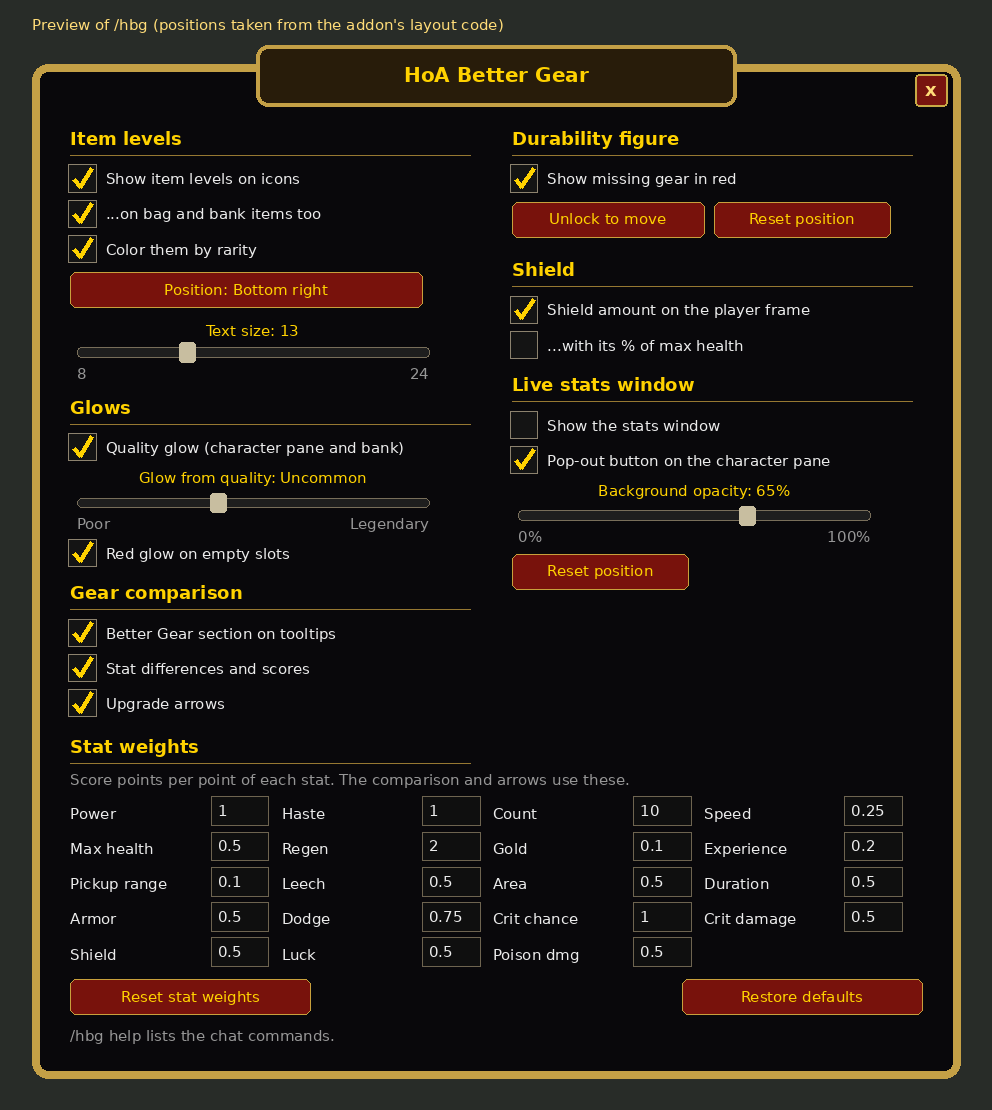
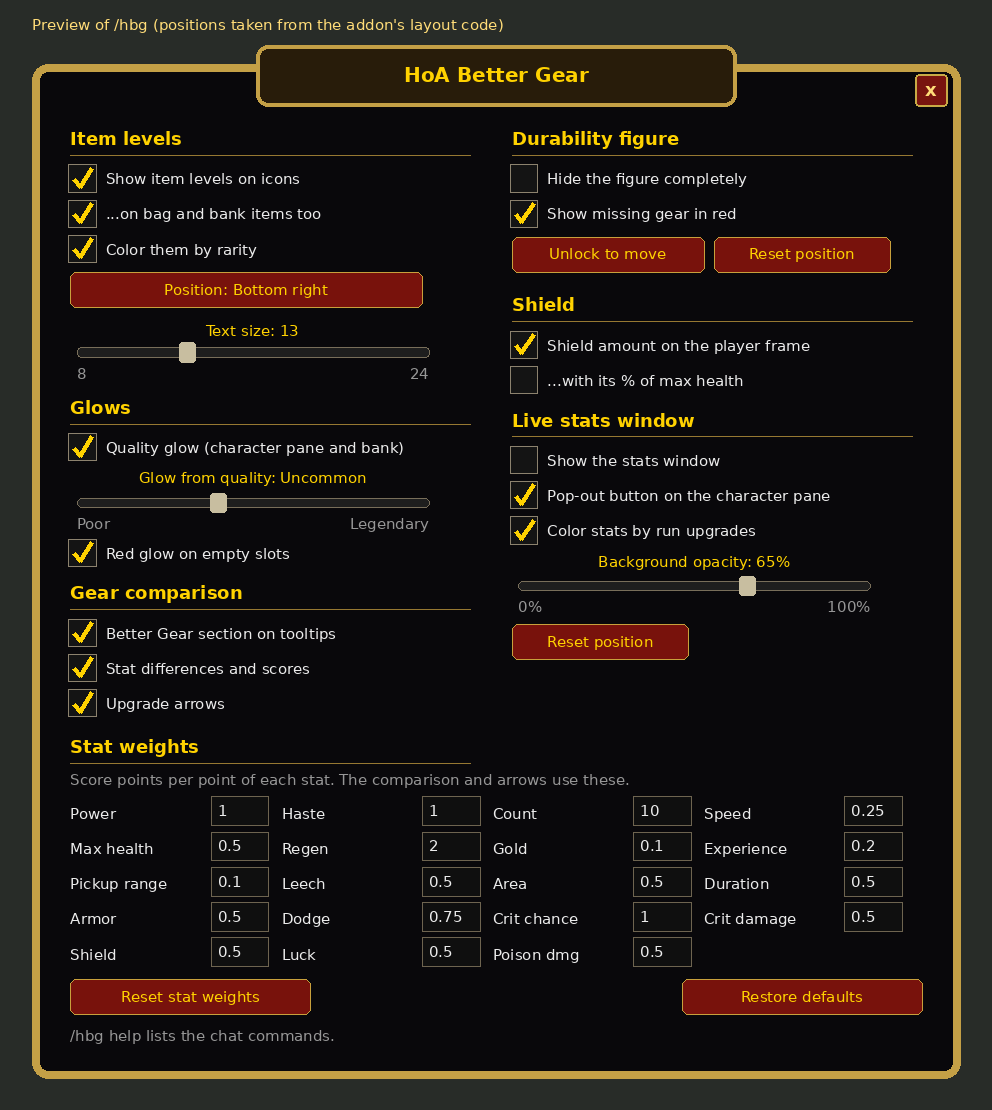
Add a setting to hide the durability figure completely
"Hide the figure completely" in the settings window (or /hbg hidefigure)
keeps the armored figure hidden, including the game's own damaged/broken
warnings. It still shows while unlocked for moving.

Claude-Session: https://claude.ai/code/session_01QKDwL2YJcTPQk37yLQ8CLT

Changed region(s): [[0.5, 0.1532, 0.9062, 0.6126], [0.8438, 0.5207, 0.875, 0.5514], [0.8438, 0.4595, 0.875, 0.4901]]

diff --git a/README.md b/README.md
@@ -4,7 +4,7 @@ An addon for **Hordes of Azeroth** that helps you pick better gear:
 
 - **Item levels**: each item's level (the `ilvl 36` in the top-right of its tooltip) is printed on its icon in its rarity color, on the character frame, in your bags and bank, and in the Extraction Vault's "Mailed to you when you leave" box, like retail item-level addons.
 - **Quality glow**: an oGlow-style colored border around equipped items on the character frame and items in your bank. HoA's bag window already has its own.
-- **Missing gear on the durability figure**: the little armored figure under the minimap (which shows damaged gear yellow and broken gear red) also shows missing gear in red, using the same rules as the empty-slot glow. The addon adds a necklace, a cloak (hanging behind the body), and two rings and two trinkets (in a small column beside the feet) to the figure in the same style (dimmed when worn, red when missing), so every slot that matters has a piece. It can be moved anywhere with `/hbg move`.
+- **Missing gear on the durability figure**: the little armored figure under the minimap (which shows damaged gear yellow and broken gear red) also shows missing gear in red, using the same rules as the empty-slot glow. The addon adds a necklace, a cloak (hanging behind the body), and two rings and two trinkets (in a small column beside the feet) to the figure in the same style (dimmed when worn, red when missing), so every slot that matters has a piece. It can be moved anywhere with `/hbg move`, or hidden altogether.
 
   ![Necklace, ring, trinket and cloak icons](docs/figure-jewelry-preview.png)
 - **Empty slot warning**: empty character slots glow red, so you can see what's missing. Shirt, tabard and ammo are left out, as are slots your class can't use in HoA (the ones it crosses out, e.g. ranged for most classes). The off hand only glows red when you're holding a one-handed weapon.
@@ -70,6 +70,7 @@ The default weights favor damage (Power, Haste and Crit chance at 1.0, most defe
 | `/hbg glow` | Toggle the quality glow on the character frame and bank |
 | `/hbg empty` | Toggle the red glow on empty character slots |
 | `/hbg figure` | Toggle missing gear on the durability figure |
+| `/hbg hidefigure` | Hide the durability figure completely (including the game's damaged/broken warnings) |
 | `/hbg move` | Unlock the durability figure to drag it; type it again to lock (`/hbg move reset` puts it back under the minimap) |
 | `/hbg shield` | Toggle the shield amount on the player frame |
 | `/hbg shieldpct` | Also show the shield as % of max health (e.g. `+52 (41%)`) |
